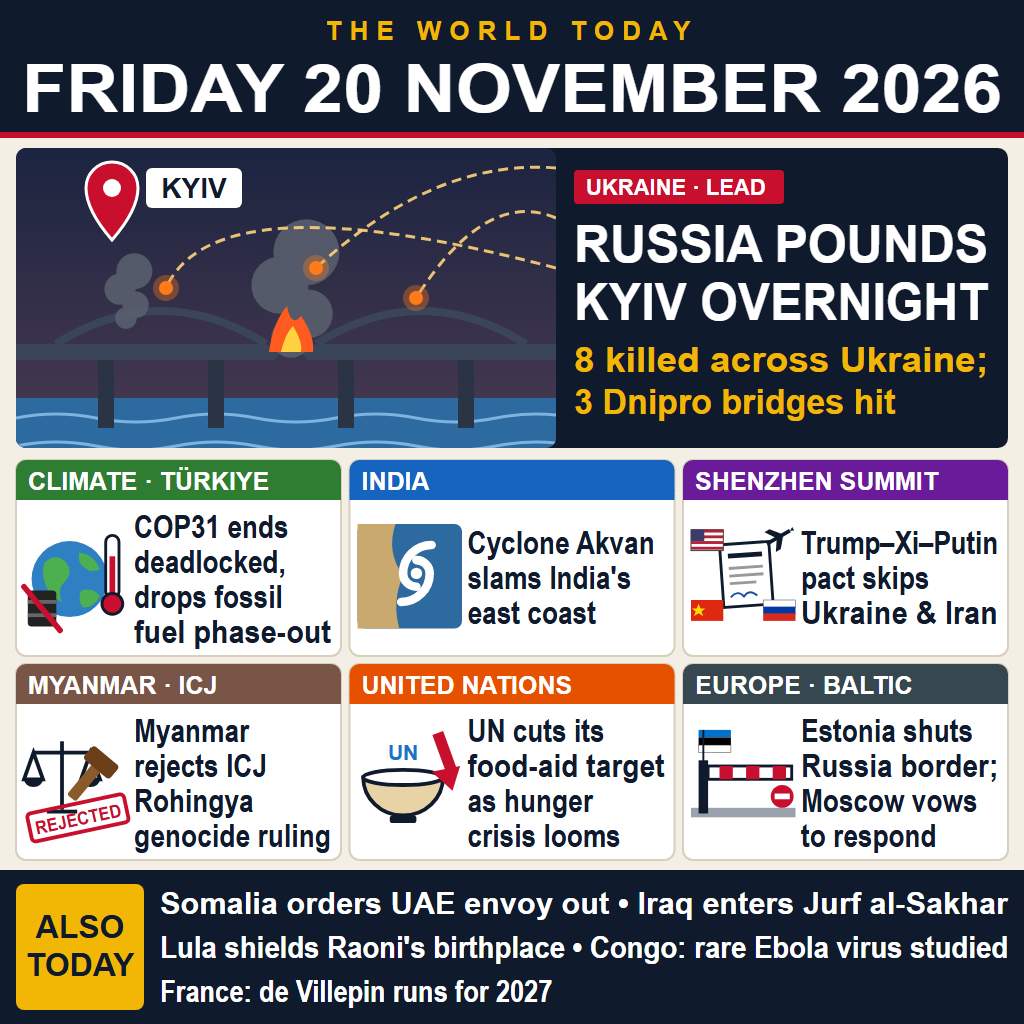
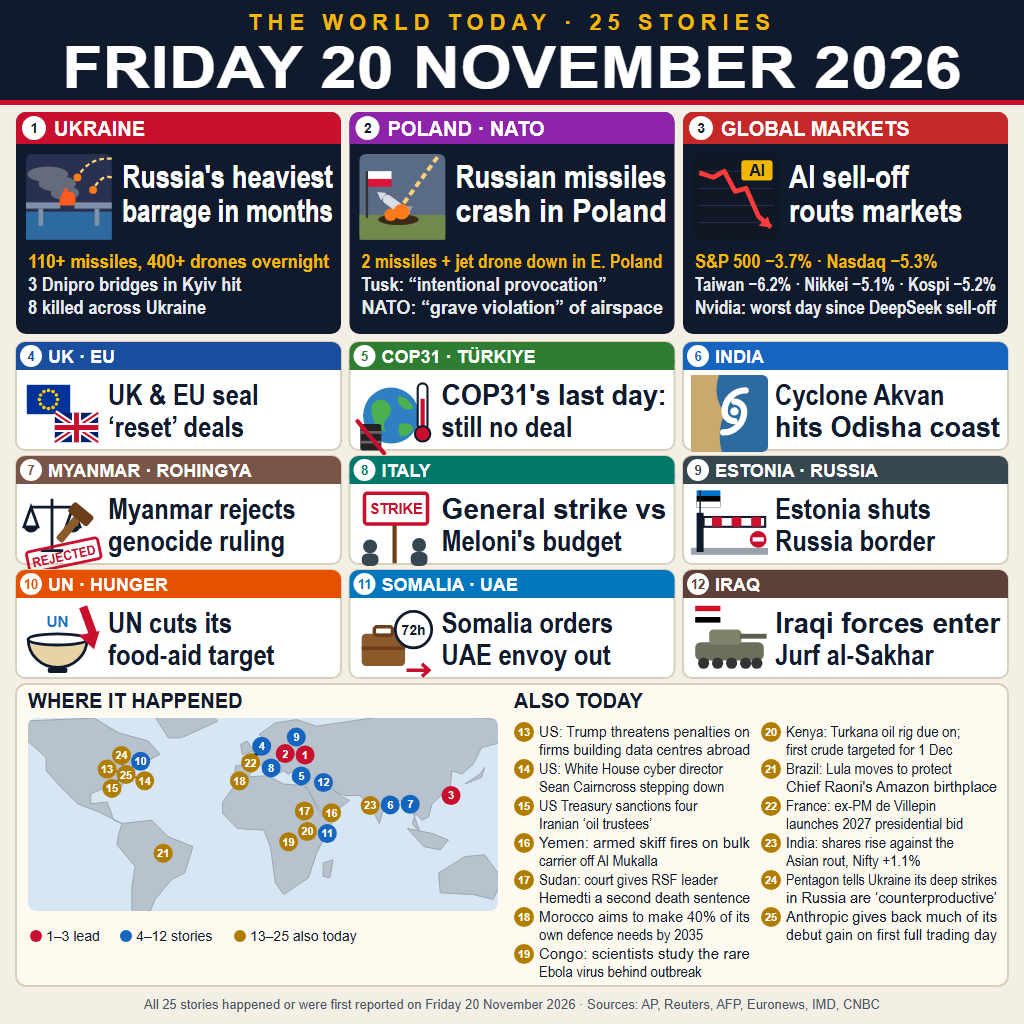
v2: 25-story layout with lead row, nine tiles, world map and also-today list
Drops the Shenzhen summit tile (19 Nov news).

diff --git a/README.md b/README.md
@@ -4,7 +4,7 @@
 [![rank](https://make.fun/badge/news-image-20261120/DarthXyler/news-image-20261120/rank.svg)](https://make.fun/bounty/news-image-20261120/leaderboard?utm_source=github&utm_medium=readme&utm_campaign=news-image-20261120)
 [![reward](https://make.fun/badge/news-image-20261120/DarthXyler/news-image-20261120/reward.svg)](https://make.fun/bounty/news-image-20261120?utm_source=github&utm_medium=readme&utm_campaign=news-image-20261120)
 
-One 1024×1024 poster that sums up the world news of **Friday 20 November 2026**: Russia's overnight strike on Kyiv as the lead, six story tiles (COP31 deadlock, Cyclone Akvan, the Shenzhen summit pact, Myanmar rejecting the ICJ genocide ruling, the UN food-aid cut, Estonia closing its Russia border) and a ticker of five more.
+One 1024×1024 poster that sums up 25 world news stories of **Friday 20 November 2026**: three lead panels (Russia's heaviest barrage on Ukraine in months, Russian missiles crashing in Poland, the AI market sell-off), nine story tiles from Europe, Asia, Africa, the Middle East and the UN, a numbered world map, and a two-column "Also today" list.
 
 ![entry](entry.png)
 
